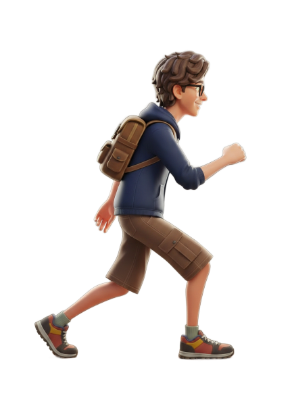
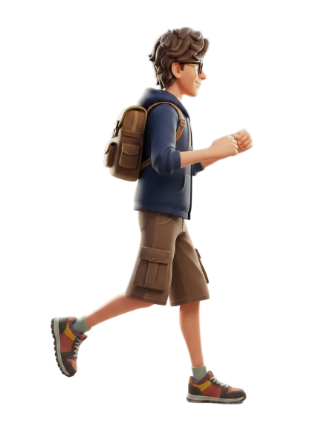
Hop & Run: ciclo de carrera de 4 fases reales + pantalla de resultados
Movimiento de Cristian (orden fundadora "mejora el movimiento"):
las 4 imagenes del ciclo eran casi la misma zancada (3 duplicadas) ->
correr parecia arrastrar los pies. Regeneradas con Replicate
(nano-banana + refs) 4 FASES distintas: contacto -> recoil (agachado)
-> paso (rodilla alta) -> vuelo (en el aire). El frame 5 roto (recorte
con camiseta blanca) se elimino. Anclaje por el PIE mas bajo real (no
por el borde de la imagen) para que Cristian pise el tejado sin flotar.
Frames optimizados a ~75KB c/u (sin penalizacion de carga).

Pantalla de resultados: tarjeta SOLIDA (antes el panel translucido
dejaba ver el key-art tras las cifras y restaba legibilidad), distancia
"heroe" con conteo animado, dos tiles de stats (rescatados / mejor),
barra de progreso de insignias, estados de RECORD y de HITO, y hover en
los botones.

Herramienta gen-run.mjs para regenerar el ciclo en el futuro.

Verificado headless (0 errores de consola) en arranque, gameplay y los
3 estados de resultados. NO desplegado: pendiente de que la fundadora lo
pruebe y apruebe antes de pasar a main.

Changed region(s): [[0.1233, 0.06, 0.863, 0.93]]

diff --git a/hop-and-run/src/scenes/GameOverScene.js b/hop-and-run/src/scenes/GameOverScene.js
@@ -31,7 +31,7 @@ export class GameOverScene extends Phaser.Scene {
     const cover = Math.max(W / bg.width, H / bg.height);
     bg.setScale(cover * 1.04);
     this.tweens.add({ targets: bg, scale: cover * 1.09, duration: 6000, yoyo: true, repeat: -1, ease: "Sine.inOut" });
-    this.add.rectangle(W / 2, H / 2, W, H, 0x0b1220, 0.62);
+    this.add.rectangle(W / 2, H / 2, W, H, 0x0b1220, 0.66);
     // Rayos suaves de fondo para dar profundidad.
     for (let i = 0; i < 5; i++) {
       this.add.image(Phaser.Math.Between(0, W), Phaser.Math.Between(0, H), "cloud")
@@ -43,61 +43,95 @@ export class GameOverScene extends Phaser.Scene {
       fontSize: size, color: "#ffffff", fontStyle: "bold", ...extra,
     });
 
-    // Panel-tarjeta central.
-    const PX = W / 2 + 70, PW = 620, PH = 470, PY = 384;
+    // ---- Tarjeta central (SÓLIDA: antes el panel translúcido dejaba ver el
+    // key-art detrás de las cifras y restaba legibilidad). ----
+    const PX = 722, CW = 648, CH = 496, CY = 404;
+    const cx0 = PX - CW / 2, cy0 = CY - CH / 2;
+    const scrim = this.add.rectangle(PX, CY, CW + 40, CH + 40, 0x0b1220, 0.5); // difumina el fondo tras la tarjeta
+    scrim.setBlendMode(Phaser.BlendModes.MULTIPLY);
     const panel = this.add.graphics();
-    panel.fillStyle(0x0e1830, 0.82); panel.fillRoundedRect(PX - PW / 2, PY - PH / 2, PW, PH, 26);
-    panel.lineStyle(3, 0xe8622c, 0.9); panel.strokeRoundedRect(PX - PW / 2, PY - PH / 2, PW, PH, 26);
+    panel.fillStyle(0x0e1a33, 0.94); panel.fillRoundedRect(cx0, cy0, CW, CH, 28);
+    panel.lineStyle(3, 0xe8622c, 0.95); panel.strokeRoundedRect(cx0, cy0, CW, CH, 28);
+    panel.fillStyle(0xffffff, 0.06); panel.fillRoundedRect(cx0 + 6, cy0 + 6, CW - 12, 46, 22); // brillo superior
 
     const title = this._reason === "energy" ? "OUT OF ENERGY!" : "YOU FELL!";
-    const hint = this._reason === "energy" ? "Grab more fruit next time 🍎" : "Watch those gaps!";
-    const titleTx = this.add.text(W / 2, 88, title, f("58px", { color: "#ff8a5e", stroke: "#0b1220", strokeThickness: 8 })).setOrigin(0.5);
-    this.add.text(W / 2, 142, hint, f("20px", { color: "#cfe4ff", fontStyle: "normal" })).setOrigin(0.5);
+    const hint = this._reason === "energy" ? "Grab more fruit next time 🍎" : "Mind the gaps — you'll go further!";
+    const titleTx = this.add.text(PX, 98, title, f("54px", { color: "#ff8a5e", stroke: "#0b1220", strokeThickness: 8 })).setOrigin(0.5);
+    this.add.text(PX, 138, hint, f("19px", { color: "#cfe4ff", fontStyle: "normal" })).setOrigin(0.5);
 
     // Cristian celebrating (it's still a great run!) — con glow y entrada.
-    const cGlow = this.add.image(W / 2 - 340, H / 2 + 80, "glow").setScale(7).setTint(0xffe066).setAlpha(0.35);
-    const c = this.add.image(W / 2 - 340, H / 2 + 70, "cristian-celebrate");
+    const cGlow = this.add.image(300, H / 2 + 80, "glow").setScale(7).setTint(0xffe066).setAlpha(0.35);
+    const c = this.add.image(300, H / 2 + 70, "cristian-celebrate");
     c.setScale(340 / c.height).setAlpha(0);
     this.tweens.add({ targets: c, alpha: 1, x: c.x + 14, duration: 400, ease: "Back.out" });
     this.tweens.add({ targets: c, y: c.y - 16, angle: 3, duration: 900, yoyo: true, repeat: -1, ease: "Sine.inOut" });
     this.tweens.add({ targets: cGlow, alpha: 0.15, duration: 900, yoyo: true, repeat: -1 });
 
-    // Distancia (métrica principal, dentro del panel).
-    this.add.text(PX, 208, "DISTANCE", f("20px", { color: "#9fb8d8", fontStyle: "normal" })).setOrigin(0.5);
-    const distTx = this.add.text(PX, 268, `${this._meters} m`, f("82px", { color: "#ffe066" })).setOrigin(0.5);
-    // Fila de stats: animales + insignia.
-    this.add.text(PX, 344, `🐾 ${this._animals} rescued`, f("24px")).setOrigin(0.5);
+    // ---- Distancia: métrica HÉROE con conteo animado (juego = recompensa). ----
+    this.add.text(PX, 206, "DISTANCE", f("19px", { color: "#9fb8d8", fontStyle: "normal", letterSpacing: 3 })).setOrigin(0.5);
+    const distTx = this.add.text(PX, 270, "0 m", f("78px", { color: "#ffe066", stroke: "#0b1220", strokeThickness: 6 })).setOrigin(0.5);
+    const counter = { v: 0 };
+    this.tweens.add({
+      targets: counter, v: this._meters, duration: 700, delay: 220, ease: "Cubic.out",
+      onUpdate: () => distTx.setText(`${Math.round(counter.v)} m`),
+      onComplete: () => {
+        distTx.setText(`${this._meters} m`);
+        this.tweens.add({ targets: distTx, scale: 1.1, duration: 150, yoyo: true, ease: "Quad.out" });
+      },
+    });
 
-    if (hitMilestone) {
-      const mi = this.add.text(PX, 388, `🎖 MILESTONE! ${total} saved!`, f("22px", { color: "#ffe066" })).setOrigin(0.5);
-      this.tweens.add({ targets: mi, scale: 1.08, duration: 420, yoyo: true, repeat: -1 });
-      this._confetti();
-    } else if (next) {
-      this.add.text(PX, 388, `🎖 ${total}/${next} to next badge`, f("18px", { color: "#9fb8d8", fontStyle: "normal" })).setOrigin(0.5);
-    } else {
-      this.add.text(PX, 388, `🎖 ${total} saved — all badges!`, f("18px", { color: "#ffe066", fontStyle: "normal" })).setOrigin(0.5);
-    }
+    // Divisor.
+    this.add.rectangle(PX, 322, CW - 120, 2, 0xffffff, 0.12);
 
+    // ---- Dos "tiles" de stats: animales rescatados | récord/mejor. ----
+    const tile = (tx, valueStr, valueColor, label, labelColor) => {
+      this.add.text(tx, 362, valueStr, f("30px", { color: valueColor })).setOrigin(0.5);
+      this.add.text(tx, 392, label, f("13px", { color: labelColor, fontStyle: "normal", letterSpacing: 2 })).setOrigin(0.5);
+    };
+    tile(PX - 150, `🐾 ${this._animals}`, "#ffffff", "RESCUED", "#9fb8d8");
     if (isRecord) {
-      const rec = this.add.text(PX, 432, "🏆 NEW RECORD!", f("26px", { color: "#7cd94e" })).setOrigin(0.5);
-      this.tweens.add({ targets: rec, scale: 1.12, duration: 480, yoyo: true, repeat: -1 });
+      tile(PX + 150, "🏆 NEW!", "#7cd94e", "RECORD!", "#7cd94e");
       this._confetti();
     } else {
-      this.add.text(PX, 432, `🏆 Best: ${Save.best()} m`, f("20px", { color: "#9fb8d8" })).setOrigin(0.5);
+      tile(PX + 150, `🏆 ${Save.best()} m`, "#ffffff", "BEST", "#9fb8d8");
     }
 
-    // Botones.
-    const again = this.add.text(PX, 502, "▶  RETRY", f("30px", { backgroundColor: "#e8622c" }))
-      .setOrigin(0.5).setPadding(44, 15, 44, 15).setInteractive({ useHandCursor: true });
+    // ---- Insignias: barra de progreso (más clara y jugosa que texto suelto). ----
+    const badgeLabel = hitMilestone
+      ? `🎖  MILESTONE!  ${total} animals saved`
+      : next
+        ? `🎖  ${total} / ${next} to next badge`
+        : `🎖  ${total} saved — all badges!`;
+    const badgeColor = (hitMilestone || !next) ? "#ffe066" : "#cfe4ff";
+    const bl = this.add.text(PX, 438, badgeLabel, f("17px", { color: badgeColor, fontStyle: hitMilestone ? "bold" : "normal" })).setOrigin(0.5);
+    if (hitMilestone) this.tweens.add({ targets: bl, scale: 1.06, duration: 440, yoyo: true, repeat: -1 });
+    // barra
+    const barW = 430, barH = 14, by = 468;
+    this.add.rectangle(PX, by, barW, barH, 0x0a1424, 0.9).setStrokeStyle(2, 0xffffff, 0.22);
+    const frac = next ? Phaser.Math.Clamp(total / next, 0, 1) : 1;
+    const fillCol = (hitMilestone || !next) ? 0xffe066 : 0x8fd6ff;
+    const fill = this.add.rectangle(PX - barW / 2 + 3, by, 2, barH - 4, fillCol).setOrigin(0, 0.5);
+    this.tweens.add({ targets: fill, width: (barW - 6) * frac, duration: 750, delay: 300, ease: "Cubic.out" });
+    if (hitMilestone) this._confetti();
+
+    // ---- Botones. ----
+    const again = this.add.text(PX, 528, "▶  RETRY", f("30px", { backgroundColor: "#e8622c" }))
+      .setOrigin(0.5).setPadding(48, 16, 48, 16).setInteractive({ useHandCursor: true });
     this.tweens.add({ targets: again, scale: 1.05, duration: 560, yoyo: true, repeat: -1, ease: "Sine.inOut" });
+    again.on("pointerover", () => again.setStyle({ backgroundColor: "#ff7a3d" }));
+    again.on("pointerout", () => again.setStyle({ backgroundColor: "#e8622c" }));
     again.on("pointerdown", () => { this.snd.ui(); this.scene.start("Game"); });
 
-    const menu = this.add.text(PX - 70, 572, "MENU", f("19px", { backgroundColor: "#24344e" }))
-      .setOrigin(0.5).setPadding(22, 10, 22, 10).setInteractive({ useHandCursor: true });
+    const menu = this.add.text(PX - 96, 596, "MENU", f("19px", { backgroundColor: "#24344e" }))
+      .setOrigin(0.5).setPadding(26, 11, 26, 11).setInteractive({ useHandCursor: true });
+    menu.on("pointerover", () => menu.setStyle({ backgroundColor: "#33486b" }));
+    menu.on("pointerout", () => menu.setStyle({ backgroundColor: "#24344e" }));
     menu.on("pointerdown", () => { this.snd.ui(); this.scene.start("Menu"); });
 
-    const share = this.add.text(PX + 70, 572, "🔗 SHARE", f("19px", { backgroundColor: "#1aa84f" }))
-      .setOrigin(0.5).setPadding(22, 10, 22, 10).setInteractive({ useHandCursor: true });
+    const share = this.add.text(PX + 96, 596, "🔗 SHARE", f("19px", { backgroundColor: "#1aa84f" }))
+      .setOrigin(0.5).setPadding(26, 11, 26, 11).setInteractive({ useHandCursor: true });
+    share.on("pointerover", () => share.setStyle({ backgroundColor: "#22c460" }));
+    share.on("pointerout", () => share.setStyle({ backgroundColor: "#1aa84f" }));
     share.on("pointerdown", () => this._share());
 
     // Botón "volver a la web" — solo en la web propia (no en iframe/CrazyGames).
@@ -107,11 +141,9 @@ export class GameOverScene extends Phaser.Scene {
       home.on("pointerdown", () => { window.location.href = "/"; });
     }
 
-    // Entrada animada: título y distancia aparecen con un pop.
-    [titleTx, distTx].forEach((o, i) => {
-      o.setAlpha(0).setScale(0.6);
-      this.tweens.add({ targets: o, scale: 1, alpha: 1, duration: 320, delay: 80 * i, ease: "Back.out" });
-    });
+    // Entrada animada: título con pop.
+    titleTx.setAlpha(0).setScale(0.6);
+    this.tweens.add({ targets: titleTx, scale: 1, alpha: 1, duration: 320, ease: "Back.out" });
 
     // Grace period + no auto-repeat: dying with SPACE held must not skip this screen.
     const retry = (e) => {

diff --git a/hop-and-run/src/scenes/GameScene.js b/hop-and-run/src/scenes/GameScene.js
@@ -128,17 +128,16 @@ export class GameScene extends Phaser.Scene {
 
   _buildPlayer() {
     if (!this.anims.exists("run")) {
-      // Ciclo NATURAL de 4 fases (feedback fundadora: "lo más natural posible").
-      // Antes: 1→2→3→4 repetía la misma zancada (el frame 3 duplica al 1) →
-      // parecía que arrastraba los pies. Ahora: zancada dcha → paso (rodilla
-      // media) → zancada izq → paso (rodilla alta) = alternancia real de piernas.
       this.anims.create({
         key: "run",
-        // ciclo natural SIN el frame 5 (recorte roto: halo blanco y proporciones
-        // distintas — parpadeaba una vez por ciclo y se veía "raro", feedback
-        // fundadora): contacto(1) → avance(3) → rodilla alta(2) → vuelo(4)
-        frames: [1, 3, 2, 4].map((i) => ({ key: `p-cristian-run-${i}` })),
-        frameRate: 13,
+        // Ciclo de 4 FASES reales (regeneradas con Replicate, orden fundadora
+        // "mejora el movimiento"): las 4 antiguas eran casi la misma zancada
+        // (3 fotogramas «pierna adelante» idénticos) → parecía arrastrar los
+        // pies. Ahora hay arco vertical y de piernas real:
+        //   1 contacto (de pie, pie plantado) → 2 recoil (agachado, punto bajo)
+        //   → 3 paso (rodilla ALTA, subiendo) → 4 vuelo (en el aire, punto alto).
+        frames: [1, 2, 3, 4].map((i) => ({ key: `p-cristian-run-${i}` })),
+        frameRate: 14,
         repeat: -1,
       });
     }
@@ -150,18 +149,19 @@ export class GameScene extends Phaser.Scene {
     this.player.body.setOffset((this.player.width - 70) / 2, this.player.height - 155);
     this.player.setDepth(10);
     this.player.play("run");
-    // Micro-polvo en las pisadas de CONTACTO (frames 1 y 4): la carrera
-    // "pisa" el tejado en vez de flotar (orden de la fundadora: mejorar
-    // el movimiento de correr de Cristian).
+    // Micro-polvo en la PISADA de contacto (frame 1): la carrera "pisa" el
+    // tejado en vez de flotar. Con el ciclo de una sola pierna de apoyo hay
+    // una pisada por ciclo → un puff por ciclo (antes se disparaba también en
+    // el frame de vuelo, que no toca el suelo). Orden fundadora: mejorar el
+    // movimiento de correr de Cristian.
     this.player.on(Phaser.Animations.Events.ANIMATION_UPDATE, () => {
       if (this.dead || this.paused) return;
       const g = this.player.body.blocked.down || this.player.body.touching.down;
       if (!g) return;
-      const k = this.player.texture.key;
-      if (k === "p-cristian-run-1" || k === "p-cristian-run-4") {
+      if (this.player.texture.key === "p-cristian-run-1") {
         const d = this.add.image(PLAYER_X - 16, this.player.body.bottom, "dust")
-          .setDepth(5).setAlpha(0.45).setScale(0.45);
-        this.tweens.add({ targets: d, x: d.x - 26, y: d.y - 5, alpha: 0, scale: 0.85, duration: 260, onComplete: () => d.destroy() });
+          .setDepth(5).setAlpha(0.5).setScale(0.5);
+        this.tweens.add({ targets: d, x: d.x - 28, y: d.y - 6, alpha: 0, scale: 0.9, duration: 280, onComplete: () => d.destroy() });
       }
     });
     // Contact shadow.

diff --git a/hop-and-run/src/scenes/BootScene.js b/hop-and-run/src/scenes/BootScene.js
@@ -7,12 +7,13 @@ import { W, H } from "../const.js";
 const ART = "assets/art/";
 
 // Cristian frames → normalized boxes (w, h, drawn character height).
+// Ciclo de carrera de 4 fases (contacto/recoil/paso/vuelo), regenerado con
+// Replicate. El antiguo run-5 (recorte roto) se eliminó: no se usaba.
 const FRAMES = {
   "cristian-run-1": [210, 190, 172],
   "cristian-run-2": [210, 190, 172],
   "cristian-run-3": [210, 190, 172],
   "cristian-run-4": [210, 190, 172],
-  "cristian-run-5": [210, 190, 172], // fase opuesta real (rodilla alta) — ciclo natural
 
   "cristian-jump": [210, 190, 168],
   "cristian-skate": [230, 190, 176],
@@ -74,17 +75,44 @@ export class BootScene extends Phaser.Scene {
   }
 
   // Draw each Cristian frame into a fixed-size canvas, scaled to a common
-  // character height and anchored bottom-center → stable feet line.
+  // character height and anchored bottom-center. Los 4 frames de carrera se
+  // anclan por su PIE MÁS BAJO real (no por el borde de la imagen): las fases
+  // "paso" y "vuelo" traen los pies dibujados más arriba, así que anclar por
+  // el borde los hacía FLOTAR ~20px una vez por ciclo (rebote tosco). Anclando
+  // por el pie a una línea común (FEET_Y = base de la fase de contacto) el
+  // corredor pisa el tejado de forma estable y el movimiento lo dan las piernas.
   _normalizeFrames() {
+    const FEET_Y = 176; // línea de pies común (= base histórica del frame de contacto)
     for (const [name, [bw, bh, ch]] of Object.entries(FRAMES)) {
       const src = this.textures.get("raw-" + name).getSourceImage();
       const scale = ch / src.height;
       const dw = src.width * scale;
       const canvas = this.textures.createCanvas("p-" + name, bw, bh);
       const ctx = canvas.getContext();
-      ctx.drawImage(src, (bw - dw) / 2, bh - ch, dw, ch);
+      let top = bh - ch; // por defecto: borde inferior de la imagen al borde del canvas
+      if (name.startsWith("cristian-run-")) {
+        const ly = this._lowestOpaqueRow(src);      // fila del pie más bajo (en la fuente)
+        top = FEET_Y - (ly + 1) * scale;            // ese pie cae en FEET_Y
+      }
+      ctx.drawImage(src, (bw - dw) / 2, top, dw, ch);
       canvas.refresh();
     }
+  }
+
+  // Fila (y) del píxel opaco más bajo de una imagen — para anclar por los pies.
+  _lowestOpaqueRow(src) {
+    const w = src.width, h = src.height;
+    const tmp = document.createElement("canvas");
+    tmp.width = w; tmp.height = h;
+    const tc = tmp.getContext("2d");
+    tc.drawImage(src, 0, 0);
+    const data = tc.getImageData(0, 0, w, h).data;
+    for (let y = h - 1; y >= 0; y--) {
+      for (let x = 0; x < w; x++) {
+        if (data[(y * w + x) * 4 + 3] > 30) return y;
+      }
+    }
+    return h - 1;
   }
 
   _genSpark() {
